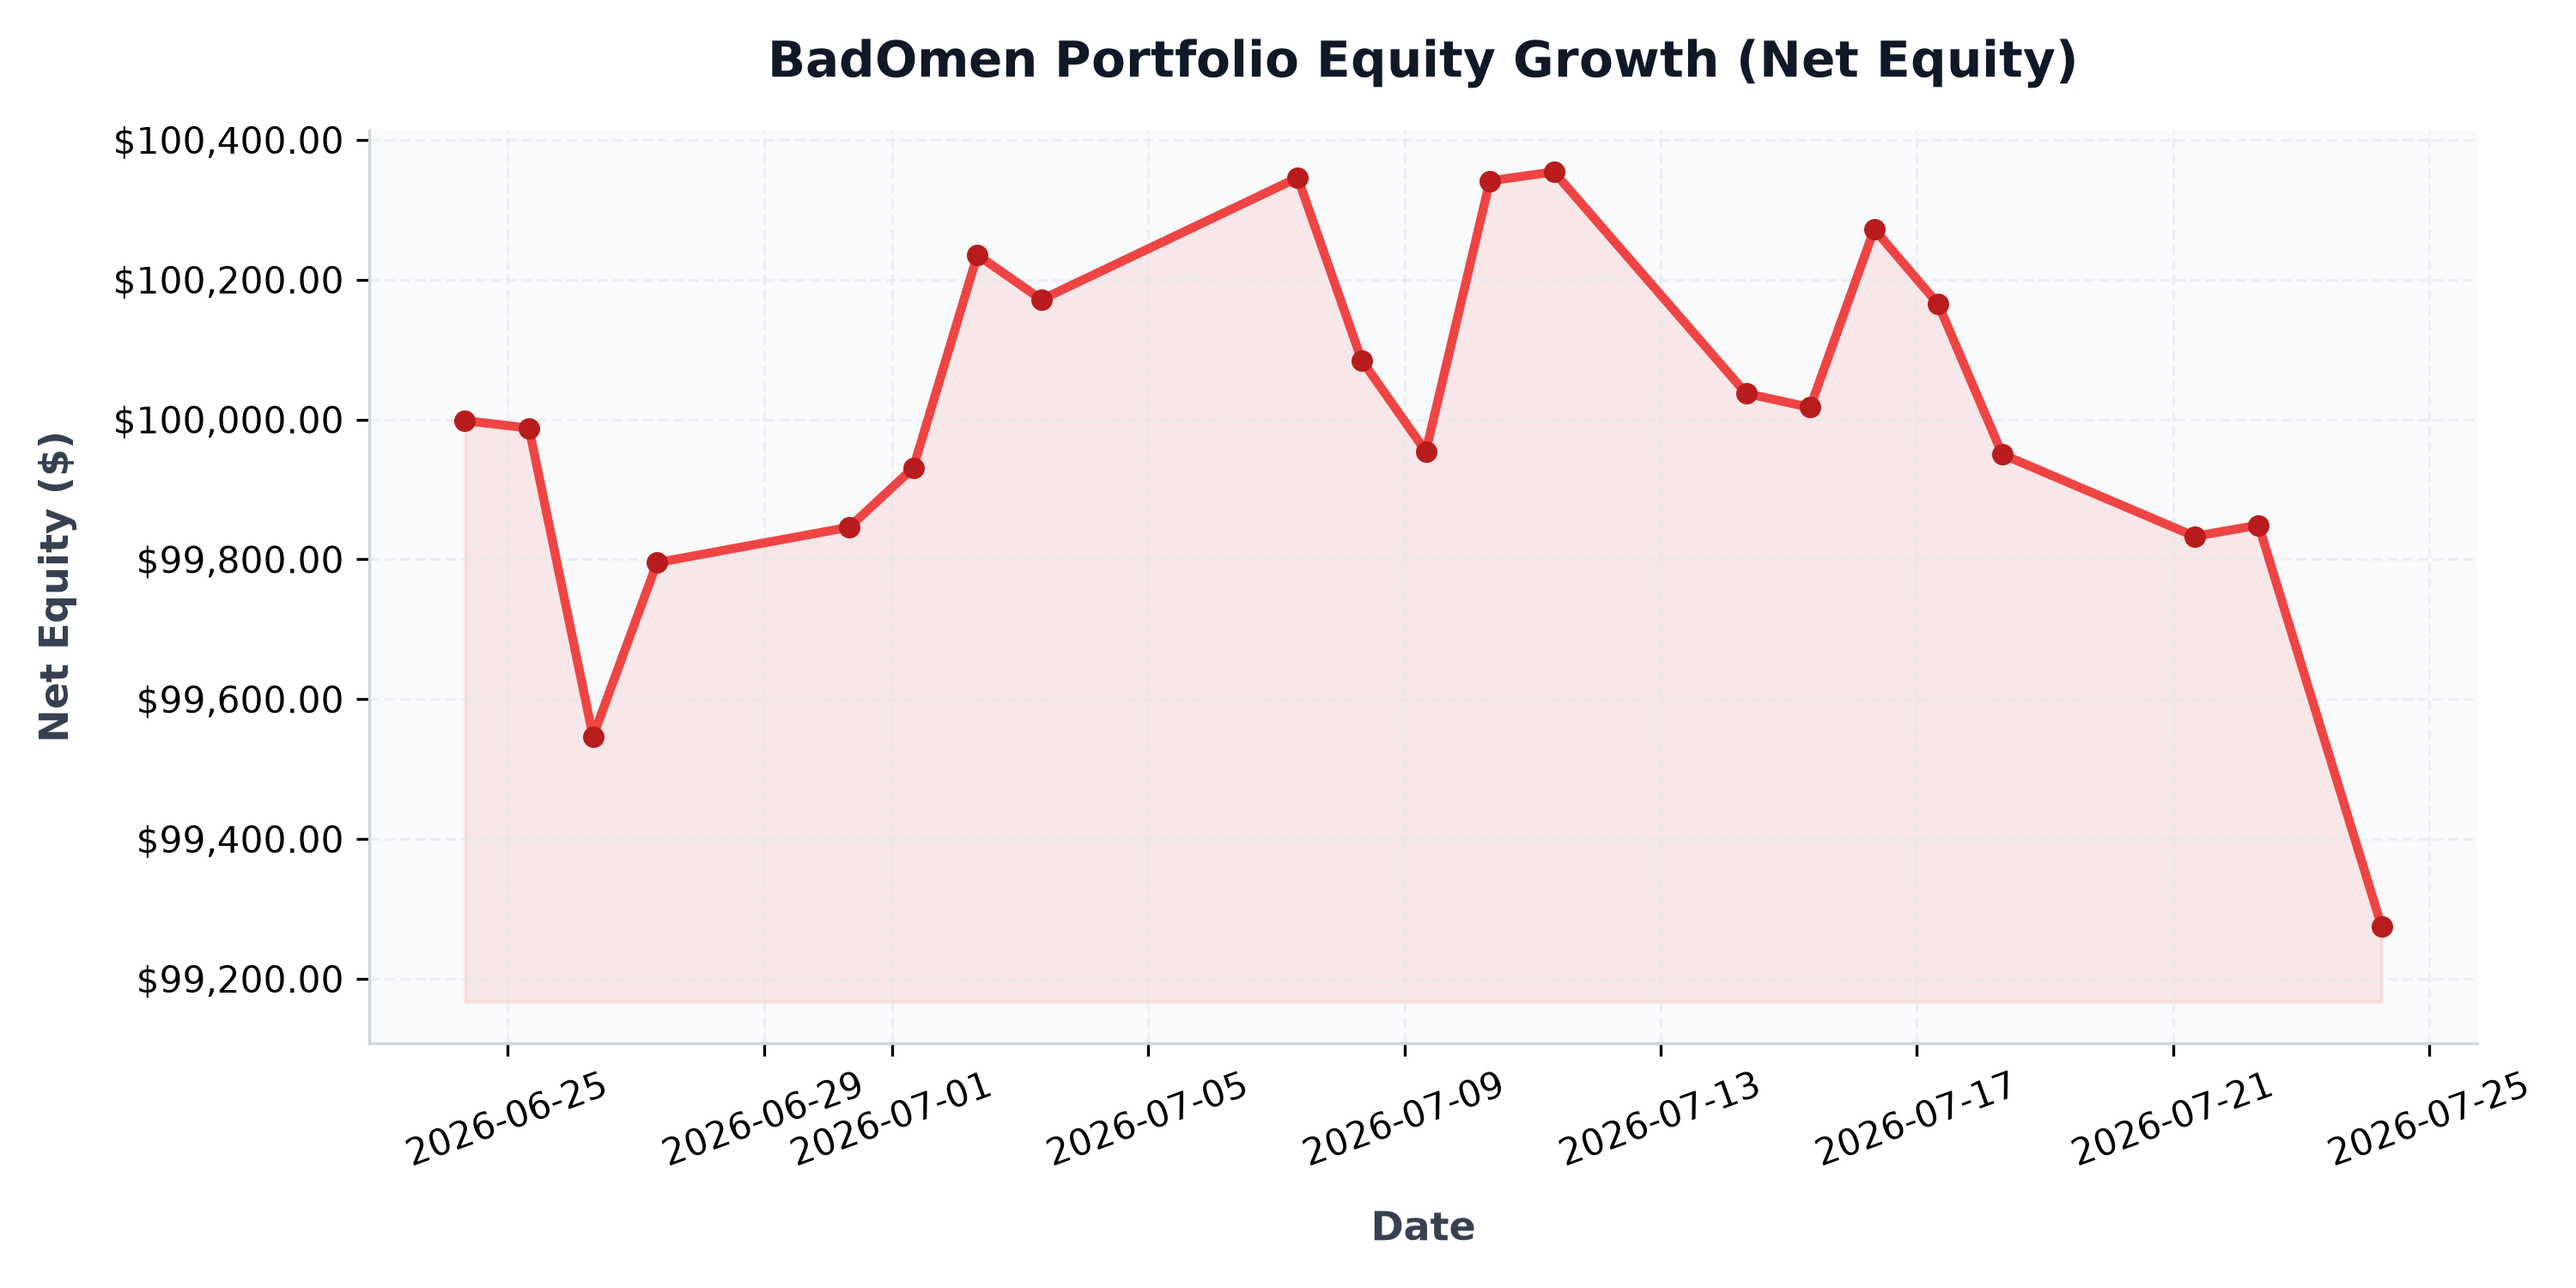
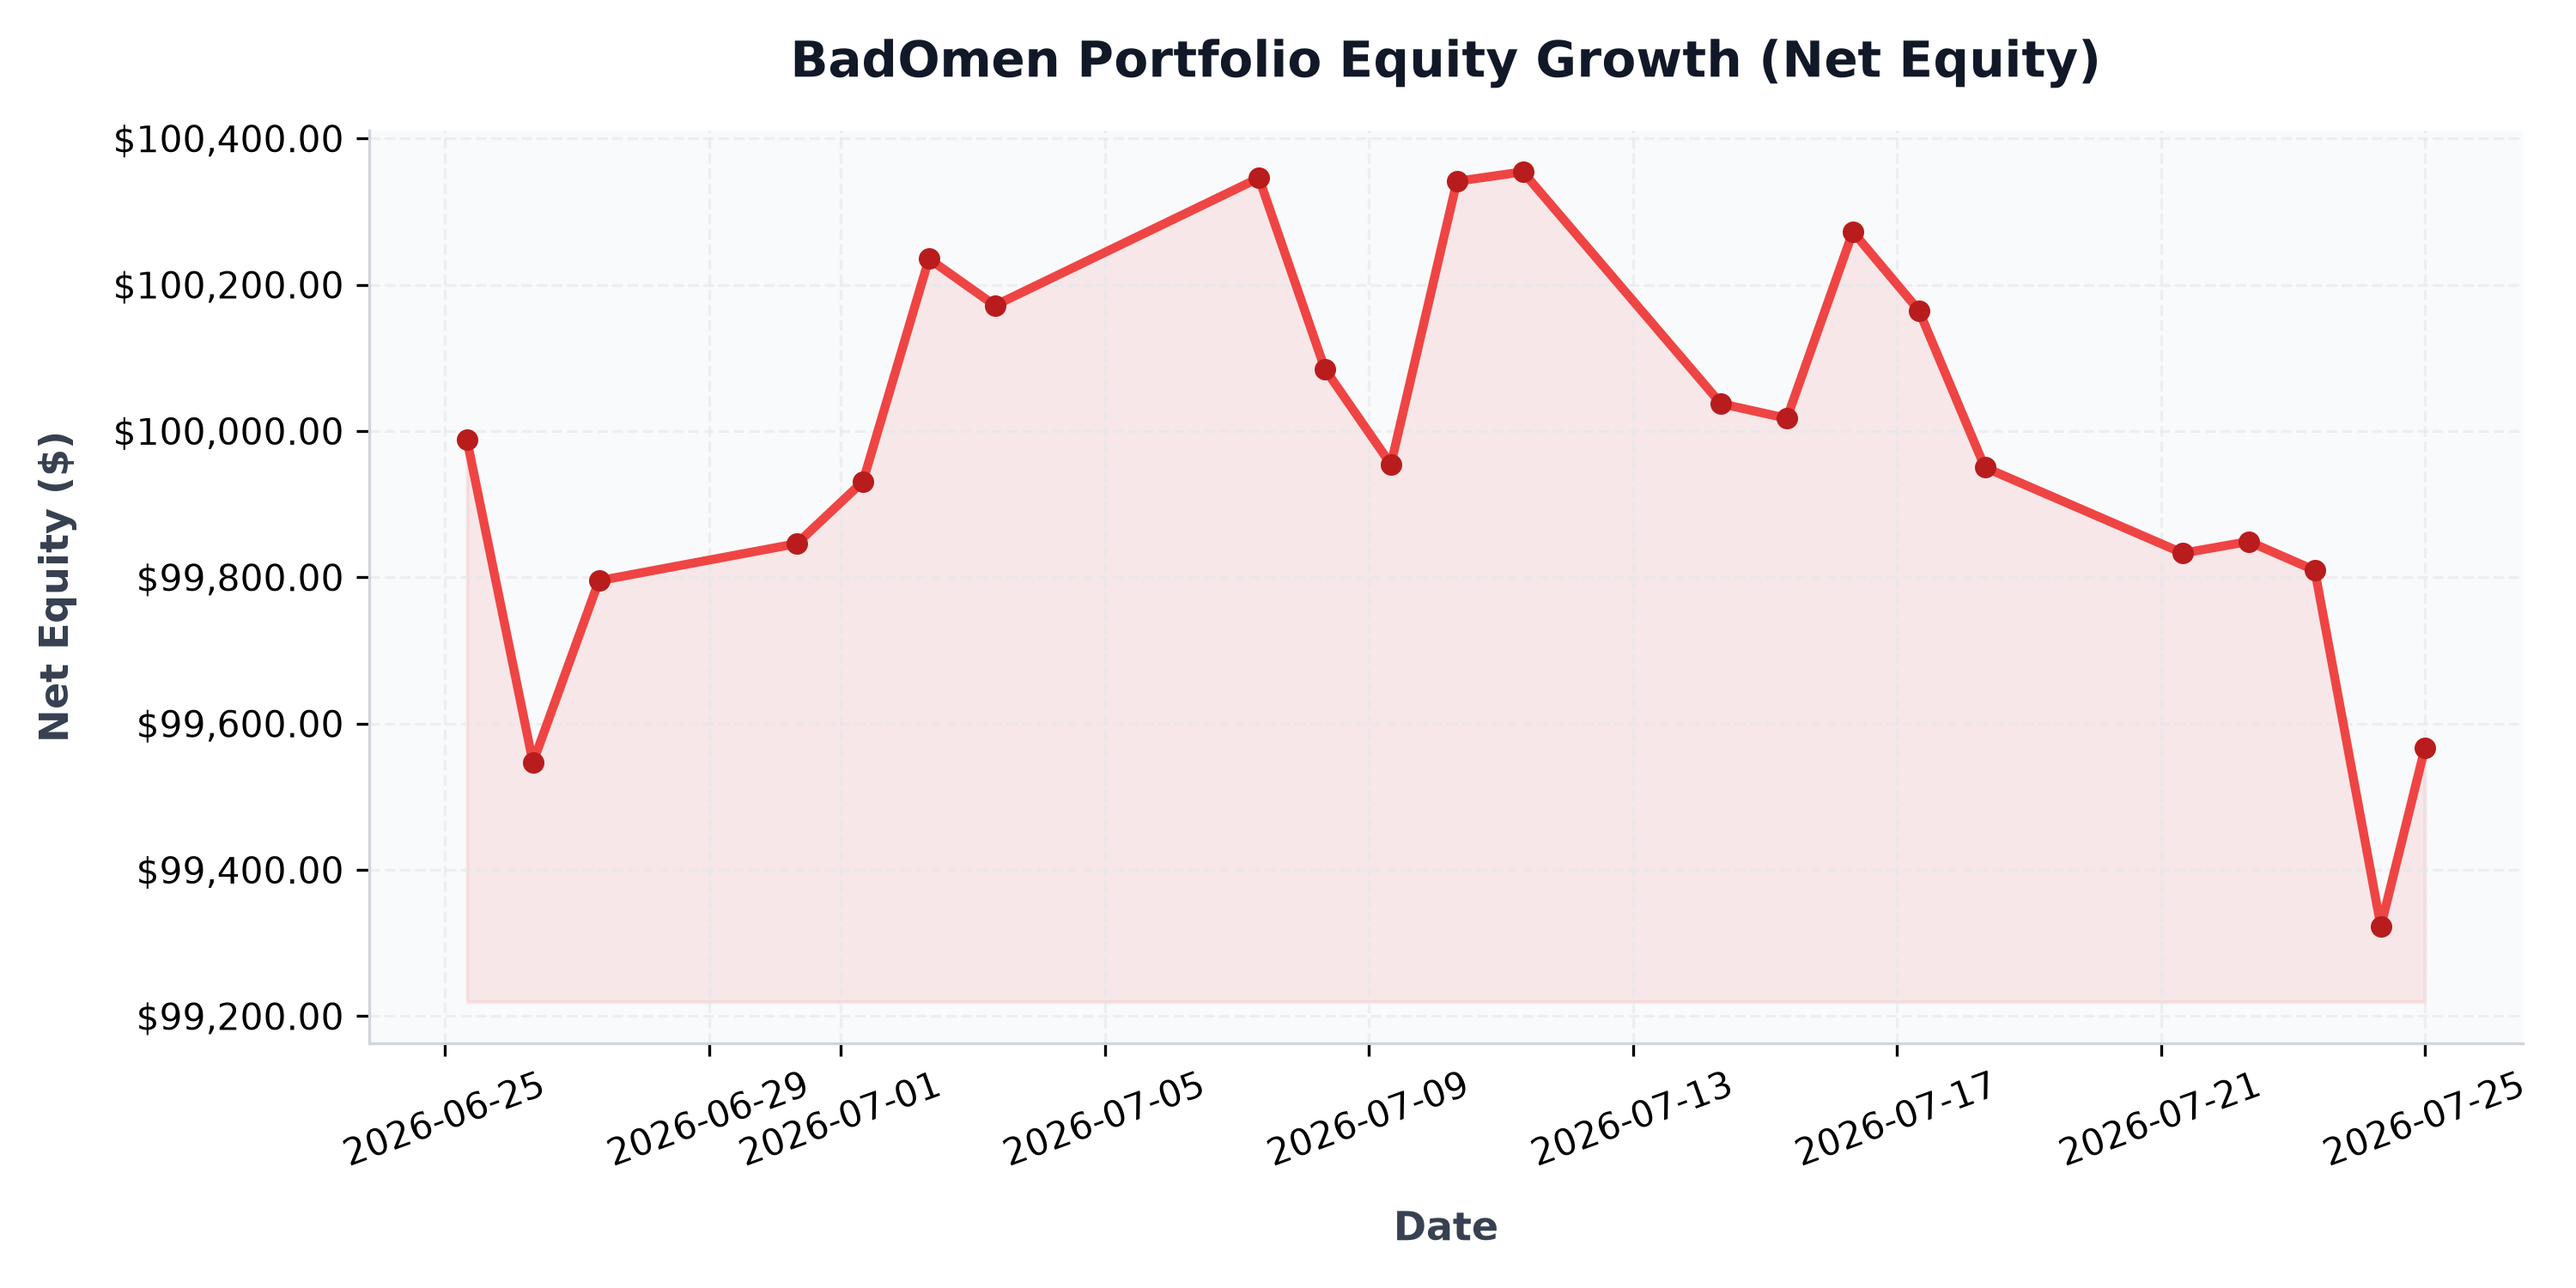
auto: daily portfolio status update - 2026-07-25 00:00:14

diff --git a/src/content/posts/portfolio-performance.md b/src/content/posts/portfolio-performance.md
@@ -1,6 +1,6 @@
 ---
 title: "BadOmen Algorithmic Portfolio Performance & PnL Report"
-pubDatetime: 2026-07-24T06:05:14.323706+08:00
+pubDatetime: 2026-07-25T00:00:14.477024+08:00
 description: "Live performance metrics, active holdings, and historic equity curve for the BadOmen automated paper trading portfolio."
 featured: true
 draft: false
@@ -16,11 +16,11 @@ Welcome to the live performance dashboard for **BadOmen**, our automated algorit
 ## 📊 Portfolio Summary
 | Performance Metric | Value | description |
 | :--- | :--- | :--- |
-| **Net Portfolio Equity** | **$99,275.07** | Total current liquidation value of cash and stock holdings |
-| **Total Unrealized P&L** | 🔴 **$-715.10** (-0.72%) | Total return of current open holdings |
-| **Cash Balance** | $73,994.16 | Idle reserve currency available for limit orders |
-| **Buying Power** | $72,089.38 | Margin-backed buying power for entry allocations |
-| **Report Updated** | `2026-07-24 06:05:14 (SGT)` | Timestamp of daily execution and sync run |
+| **Net Portfolio Equity** | **$99,566.46** | Total current liquidation value of cash and stock holdings |
+| **Total Unrealized P&L** | 🔴 **$-419.25** (-0.42%) | Total return of current open holdings |
+| **Cash Balance** | $73,035.84 | Idle reserve currency available for limit orders |
+| **Buying Power** | $362,761.10 | Margin-backed buying power for entry allocations |
+| **Report Updated** | `2026-07-25 00:00:14 (SGT)` | Timestamp of daily execution and sync run |
 
 ## 📈 Net Equity Growth Curve
 The chart below illustrates the historical performance of the account starting from our baseline capital funding of $100,000.00.
@@ -35,29 +35,30 @@ The chart below illustrates the exposure of our currently held active positions 
 ## 💼 Current Position Holdings
 | Ticker | Industry | Shares Owned | Average Entry Cost | Current Price | Unrealized P&L | Return (%) |
 | :--- | :--- | :--- | :--- | :--- | :--- | :--- |
-| **AN** | Auto & Truck Dealerships | 5 | $188.51 | $205.10 | 🟢 +$82.96 | +8.80% |
-| **AVGO** | Semiconductors | 1 | $385.71 | $392.57 | 🟢 +$6.86 | +1.78% |
-| **CELH** | Beverages - Non-Alcoholic | 33 | $29.71 | $27.25 | 🔴 $-81.27 | -8.29% |
-| **DUOL** | Software - Application | 14 | $131.04 | $118.88 | 🔴 $-170.30 | -9.28% |
-| **FIS** | Information Technology Services | 23 | $41.79 | $40.04 | 🔴 $-40.25 | -4.19% |
-| **GDDY** | Software - Infrastructure | 12 | $76.21 | $87.62 | 🟢 +$136.92 | +14.97% |
-| **GDS** | Information Technology Services | 30 | $32.77 | $32.52 | 🔴 $-7.50 | -0.76% |
-| **GGAL** | Banks - Regional | 17 | $56.04 | $50.15 | 🔴 $-100.12 | -10.51% |
-| **GPI** | Auto & Truck Dealerships | 3 | $316.15 | $326.68 | 🟢 +$31.59 | +3.33% |
-| **ITRI** | Scientific & Technical Instruments | 12 | $81.80 | $83.93 | 🟢 +$25.56 | +2.60% |
-| **KBR** | Engineering & Construction | 27 | $36.23 | $36.35 | 🟢 +$3.16 | +0.32% |
-| **META** | Internet Content & Information | 1 | $568.17 | $605.93 | 🟢 +$37.76 | +6.65% |
-| **NESR** | Oil & Gas Equipment & Services | 34 | $28.74 | $27.84 | 🔴 $-30.60 | -3.13% |
-| **NU** | Banks - Regional | 85 | $11.60 | $14.17 | 🟢 +$218.57 | +22.17% |
-| **ON** | Semiconductors | 10 | $90.45 | $89.50 | 🔴 $-9.55 | -1.06% |
-| **ORCL** | Software - Infrastructure | 5 | $181.95 | $121.88 | 🔴 $-300.34 | -33.01% |
-| **PATH** | Software - Infrastructure | 187 | $10.42 | $10.19 | 🔴 $-43.07 | -2.21% |
-| **PYPL** | Credit Services | 17 | $56.05 | $54.96 | 🔴 $-18.50 | -1.94% |
-| **QCOM** | Semiconductors | 15 | $193.68 | $171.09 | 🔴 $-338.92 | -11.67% |
-| **SMCI** | Computer Hardware | 33 | $29.25 | $31.14 | 🟢 +$62.37 | +6.46% |
-| **T** | Telecom Services | 47 | $20.85 | $22.93 | 🟢 +$97.76 | +9.98% |
-| **WEN** | Restaurants | 257 | $8.02 | $7.16 | 🔴 $-221.98 | -10.76% |
-| **ZG** | Internet Content & Information | 31 | $31.35 | $29.54 | 🔴 $-56.21 | -5.78% |
+| **AN** | Auto & Truck Dealerships | 5 | $188.51 | $209.94 | 🟢 +$107.14 | +11.37% |
+| **AVGO** | Semiconductors | 1 | $385.71 | $386.08 | 🟢 +$0.38 | +0.10% |
+| **CELH** | Beverages - Non-Alcoholic | 33 | $29.71 | $27.21 | 🔴 $-82.59 | -8.42% |
+| **DUOL** | Software - Application | 14 | $131.04 | $122.01 | 🔴 $-126.48 | -6.89% |
+| **FIS** | Information Technology Services | 23 | $41.79 | $41.29 | 🔴 $-11.50 | -1.20% |
+| **GDDY** | Software - Infrastructure | 12 | $76.21 | $92.17 | 🟢 +$191.52 | +20.94% |
+| **GDS** | Information Technology Services | 30 | $32.77 | $31.93 | 🔴 $-25.20 | -2.56% |
+| **GGAL** | Banks - Regional | 17 | $56.04 | $49.90 | 🔴 $-104.37 | -10.96% |
+| **GOOGL** | Internet Content & Information | 3 | $319.44 | $320.08 | 🟢 +$1.92 | +0.20% |
+| **GPI** | Auto & Truck Dealerships | 3 | $316.15 | $333.44 | 🟢 +$51.88 | +5.47% |
+| **ITRI** | Scientific & Technical Instruments | 12 | $81.80 | $84.69 | 🟢 +$34.68 | +3.53% |
+| **KBR** | Engineering & Construction | 27 | $36.23 | $37.36 | 🟢 +$30.43 | +3.11% |
+| **META** | Internet Content & Information | 1 | $568.17 | $605.66 | 🟢 +$37.49 | +6.60% |
+| **NESR** | Oil & Gas Equipment & Services | 34 | $28.74 | $28.09 | 🔴 $-22.10 | -2.26% |
+| **NU** | Banks - Regional | 85 | $11.60 | $14.28 | 🟢 +$227.83 | +23.11% |
+| **ON** | Semiconductors | 10 | $90.45 | $88.04 | 🔴 $-24.15 | -2.67% |
+| **ORCL** | Software - Infrastructure | 5 | $181.95 | $118.01 | 🔴 $-319.70 | -35.14% |
+| **PATH** | Software - Infrastructure | 187 | $10.42 | $10.61 | 🟢 +$35.45 | +1.82% |
+| **PYPL** | Credit Services | 17 | $56.05 | $55.94 | 🔴 $-1.87 | -0.20% |
+| **QCOM** | Semiconductors | 15 | $193.68 | $168.58 | 🔴 $-376.57 | -12.96% |
+| **SMCI** | Computer Hardware | 33 | $29.25 | $30.92 | 🟢 +$55.11 | +5.71% |
+| **T** | Telecom Services | 47 | $20.85 | $23.75 | 🟢 +$136.06 | +13.88% |
+| **WEN** | Restaurants | 257 | $8.02 | $7.21 | 🔴 $-207.84 | -10.08% |
+| **ZG** | Internet Content & Information | 31 | $31.35 | $30.49 | 🔴 $-26.76 | -2.75% |
 
 ## 🔴 Recent Realized Trades
 | Ticker | Shares Sold | Entry Price | Exit Price | Strategy Trigger | Realized Return | Exit Date |
